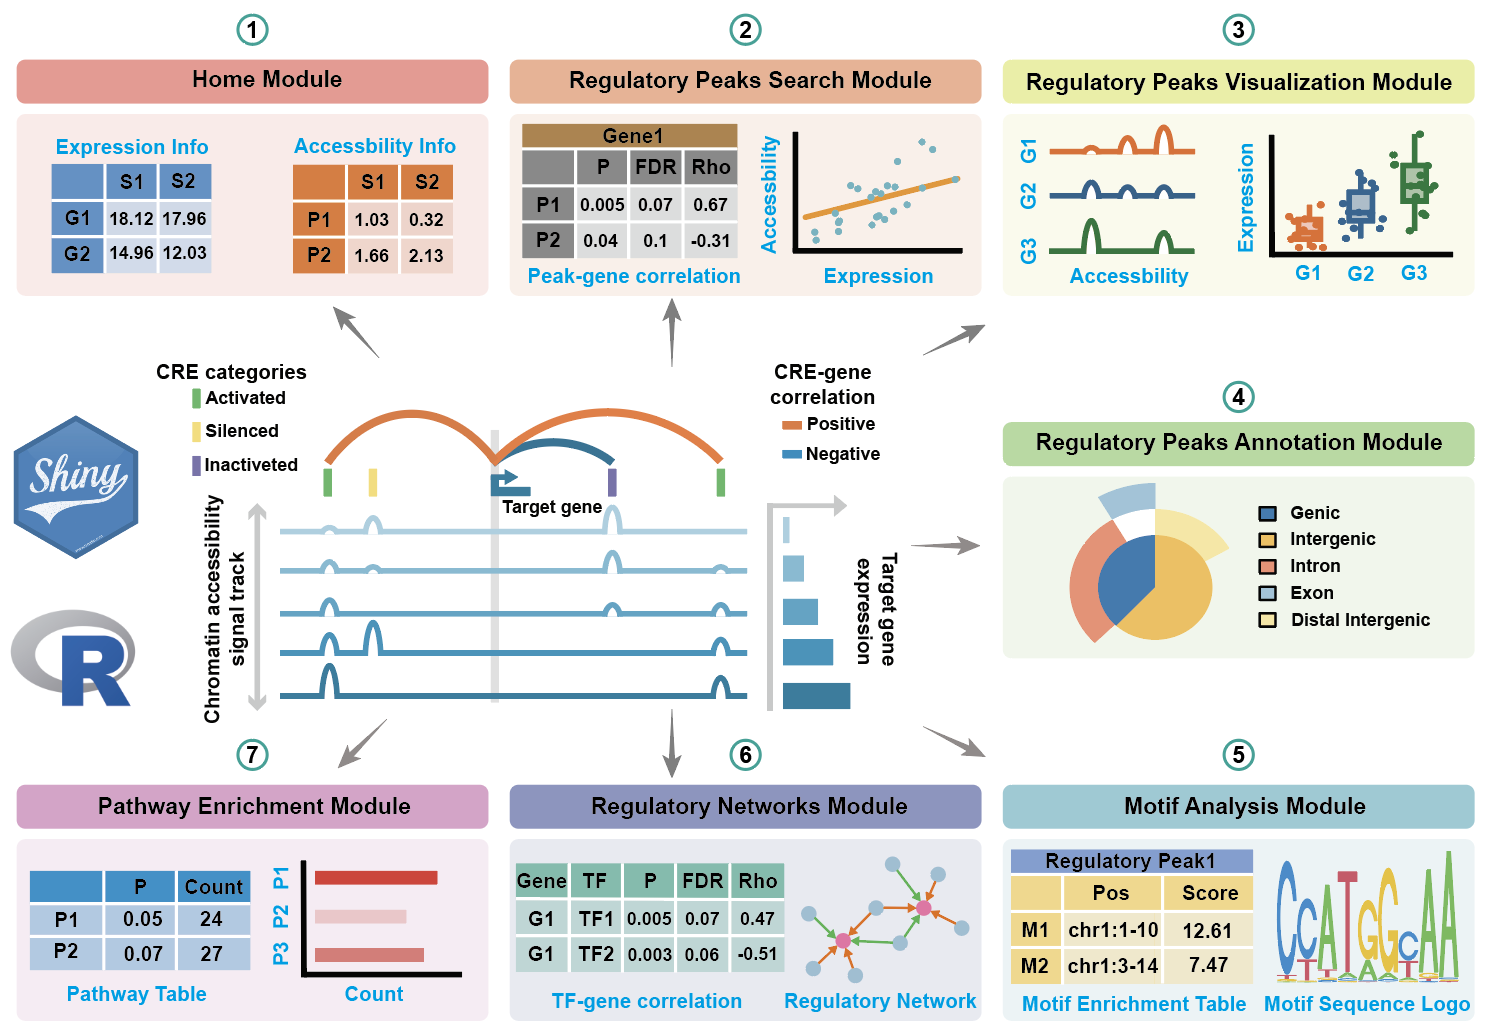
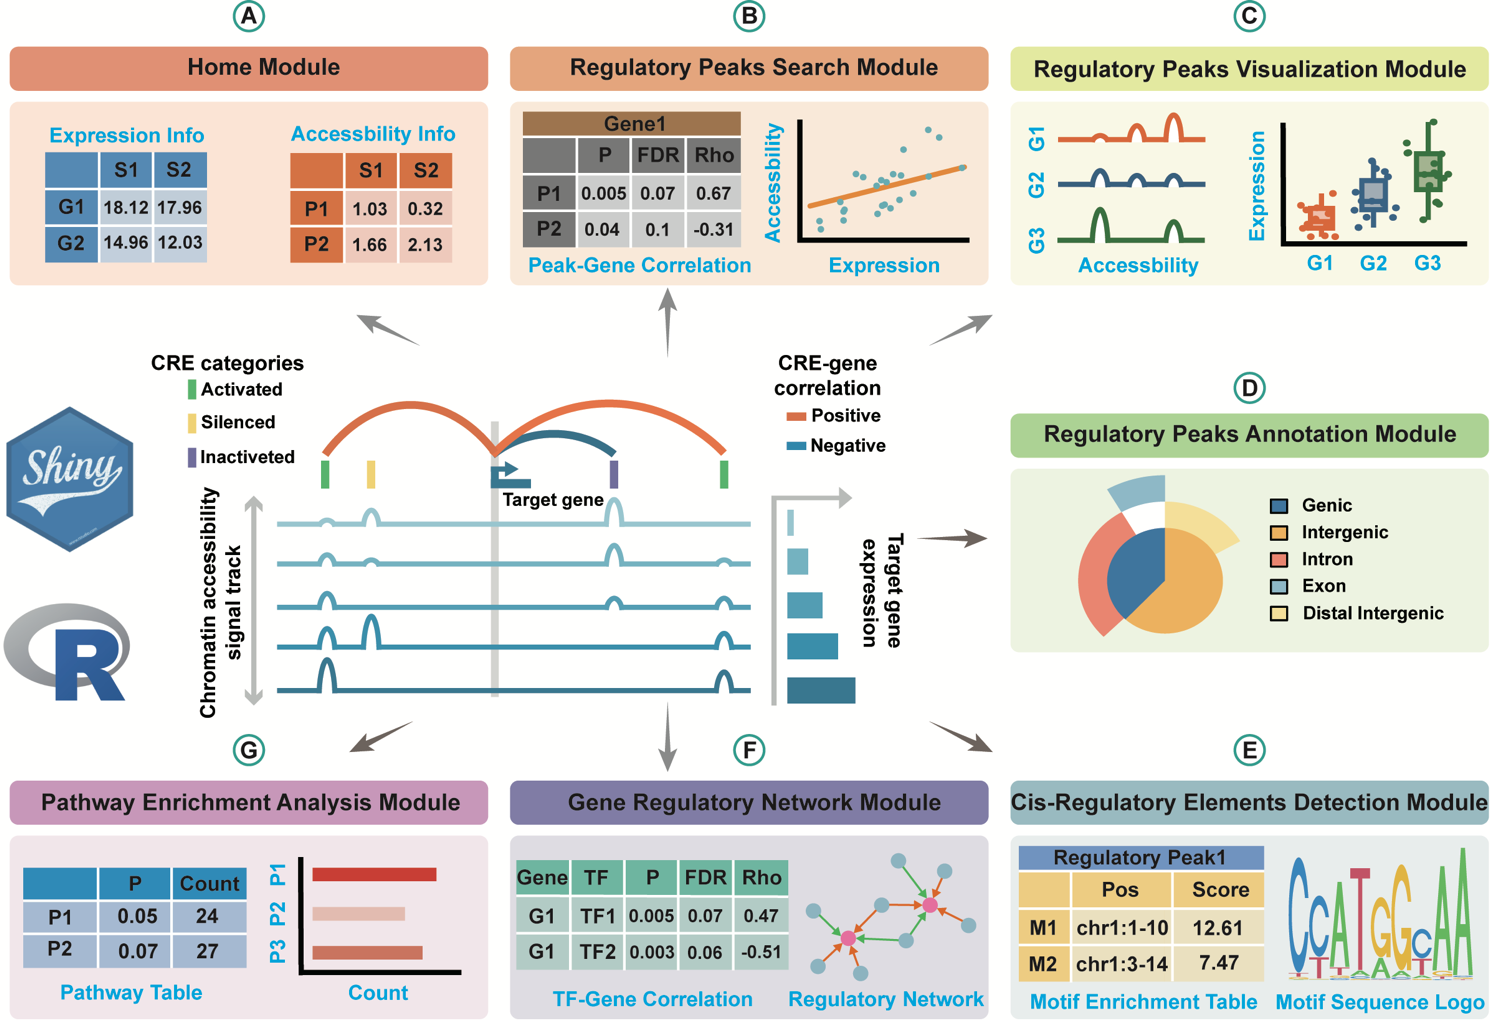
update third

diff --git a/README.md b/README.md
@@ -9,66 +9,75 @@ Linkage is a user-friendly, interactive, open-source R-Shiny web application for
 ![](man/figures/pinpeline.png) The Shiny application is additionally hosted at <https://xulabgdpu.org.cn/linkage>.
 
 
-## Insallation
+## Linkage Installation & Running Guide
 
-### 1. Download Linkage Source Code
-  + Download Linkage from the [https://github.com/luoyyyy/Linkage](https://github.com/luoyyyy/Linkage).
-
-    Or
-  + ```r
-    git clone https://github.com/luoyyyy/Linkage.git
-    ```
-### 2. Install Required R Packages and Running Linkage
-  + **Method 1**: Open the R environment or R GUI of your choice and run the following code to install the required R packages. ( all necessary packages and their version information can be found in the [sessioninfo](https://github.com/luoyyyy/Linkage/blob/main/sessionInfo) ):
-    ```r
-    install.packages(c("Seurat","shiny","shinyBS","ggplot2","clusterProfiler","BSgenome.Hsapiens.UCSC.hg38","DT"))
-    ```
-    After installing the required dependencies for the Linkage project, download the necessary runtime files from GitHub and place them in your project folder. The project structure should look like this:
-    ```bash
-    |- www/
-    |- extdata/
-    |- ui.R
-    |- server.R
-    |- global.R
-    ```
-    If all files are located in the ~/Linkage directory (e.g., your current working directory is ~/), run the following command:
-      ```r
-         shiny::runApp("Linkage")
-      ```
-    Or
-    
-  + **Method 2**: The project environment required for Linkage can be reproduced using the renv.lock, .Rprofile and activate.R files.  
-    Create a project and run the following command in the project directory:  
-
-    ```r
-      install.package("renv")
-      renv::init()
-    ```
-    After running the command, you will see the following directory   structure:
+### 1. Download Linkage Source Code  
+  You can obtain the source code in either of the following ways:
+  + Clone the GitHub repository:
       ```bash
-      |- renv/
-      |- renv.lock
-      |- .Rprofile
+        git clone https://github.com/luoyyyy/Linkage.git
       ```
-      Replace the renv.lock and .Rprofile files in your current directory with the versions provided in the GitHub repository, then run the following command to restore the project environment.
-     ```r
-      renv::restore()
-     ```
-      During the execution of the above command, the process may be interrupted due to failure in downloading certain packages. you can manually install the failed packages and then re-run "renv::restore()" to continue restoring the environment.
-    
-      After installing the required dependencies for the Linkage project, download the necessary runtime files from GitHub and place them in your project folder. The project structure should look like this:
-    ```bash
-    ##Method 2:
-    |- renv/
-    |- renv.lock
-    |- .Rprofile
+    Or
+
+   + Download the ZIP file from : [https://github.com/luoyyyy/Linkage](https://github.com/luoyyyy/Linkage).
+
+   
+  
+### 2. Install Required R Packages & Run Linkage
+There are two recommended methods to install dependencies and run the Shiny app.  
++ **Method 1**: Manual Package Installation  
+1.Open your R or RStudio environment.  
+2.Install the required packages:  
+ℹ A complete list of packages and versions can be found in the [sessionInfo](https://github.com/luoyyyy/Linkage/blob/main/sessionInfo) file.
+    ```r
+    install.packages(c("shiny","shinyBS","ggplot2","BSgenome","clusterProfiler","rtracklayer"," BiocIO","XVector","wordcloud2","plotly","enrichplot","visNetwork","lubridate","forcats","stringr","purrr","readr","tidyr","tibble","tidyverse","igraph",""Gviz,"GenomicRanges","GenomeInfoDb","IRanges","S4Vectors","BiocGenerics","dplyr","ggpmisc","ggpp","data.table","shinyWidgets","shinycssloaders","shinydashboardPlus","shinydashboard","BSgenome.Hsapiens.UCSC.hg38","DT",))
+    ```  
+    3.Put the downloaded files into the corresponding folders to match the structure below:
+    ```pgsql
+    Linkage/
     |- www/
     |- extdata/
     |- ui.R
     |- server.R
     |- global.R
     ```
-    When you are in the project directory containing the Shiny app files, you can start the app directly from the R console by running:
+    4.Run the application from the Linkage directory:
+    ```r
+    shiny::runApp("Linkage")
+    ```
+    
+ + **Method 2**: Use renv to Reproduce the Project Environment     
+ 1.In your R environment, create or open a new R project in the Linkage directory.  
+ 2.Install renv and initialize the environment:
+    ```r
+   install.package("renv")
+   renv::init()
+    ```  
+    3.Replace the generated renv.lock and .Rprofile files with those provided in the GitHub repository.  
+    4.Restore the project environment: 
+    ```r
+    renv::restore()
+     ```  
+     ⚠ If any package fails to install, you may install it manually, then re-run renv::restore().    
+    5.Ensure the following directory structure is present:
+    ```pgsql
+    Linkage/
+    ├── renv/
+    ├── renv.lock
+    ├── .Rprofile
+    ├── www/
+    ├── extdata/
+    ├── ui.R
+    ├── server.R
+    └── global.R
+    ```
+    6.Run the Shiny application:
       ```r
-        shiny::runApp(".")
+      shiny::runApp(".")
       ```
+## Authors
+Please do not hesitate to post an issue or contact the authors :
+
+Siwen Xu: siwxu@gdpu.edu.cn
+
+Yuyan Luo : 1620218029@qq.com
